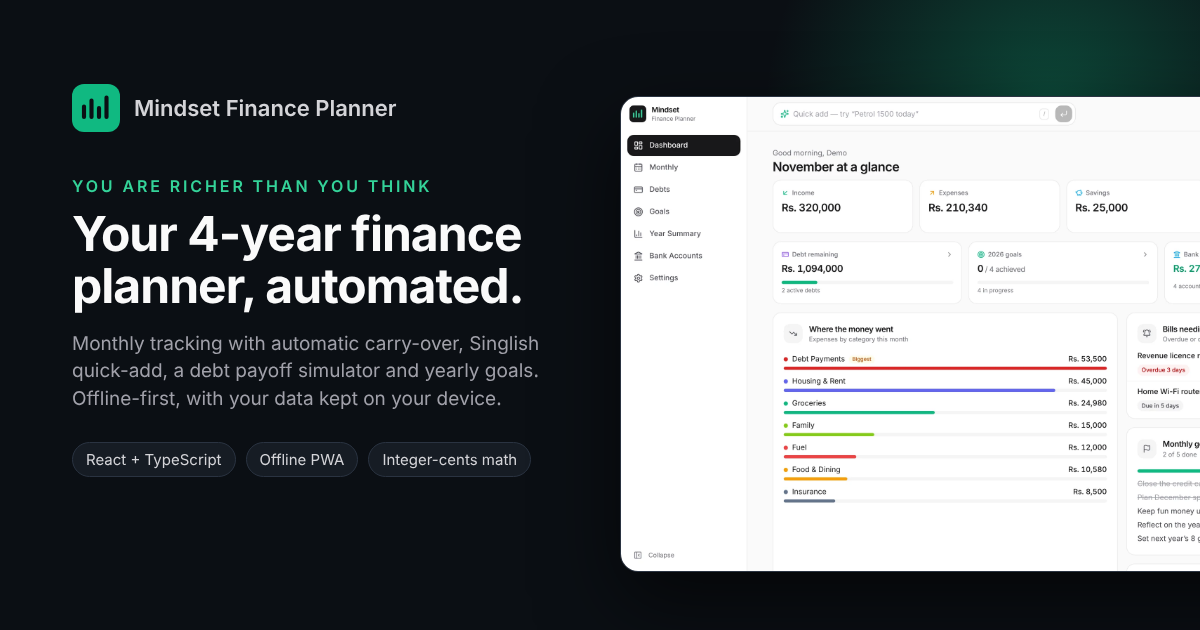
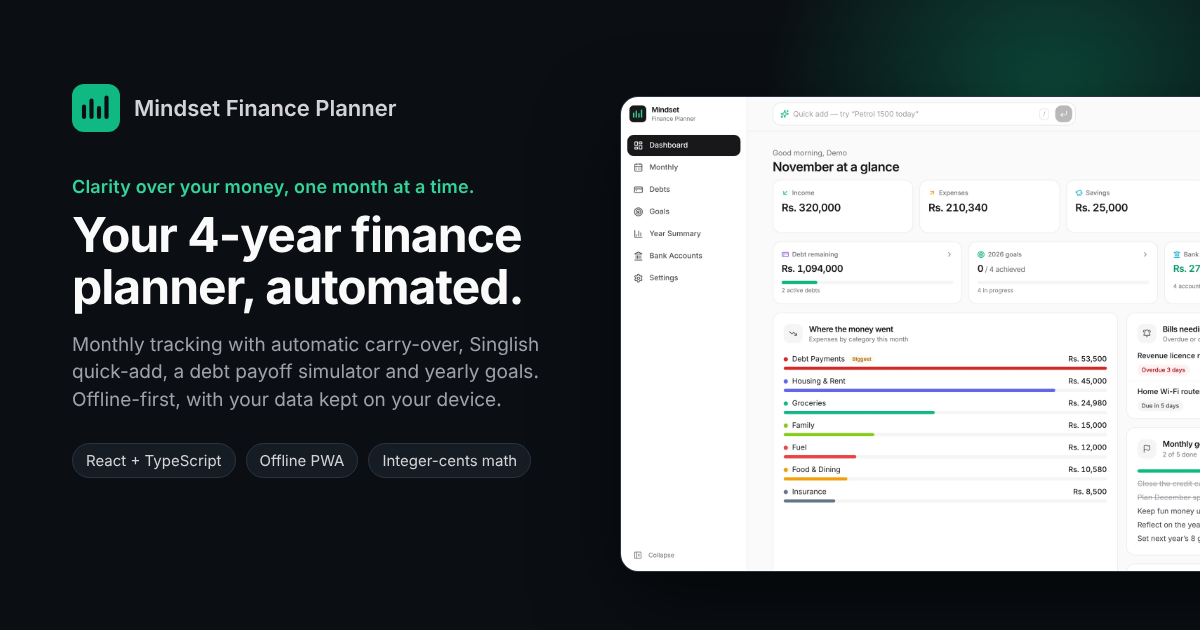
V1 originality polish: replace the reference planner's slogan
- Welcome screen tagline is now original: "Clarity over your money,
  one month at a time."
- Sample-data reflection reworded so no planner phrasing remains
- Open Graph preview image regenerated with the new tagline
- src/originality.test.ts scans src, public assets, index.html, README
  and docs (via import.meta.glob) and fails if the slogan reappears;
  verified it fails with the old copy and passes with the new
- README notes the original-copy policy; test count updated (192)

Claude-Session: https://claude.ai/code/session_01BjArtjfvLbhKputYadAAhH

diff --git a/src/originality.test.ts b/src/originality.test.ts
@@ -1,0 +1,29 @@
+import { describe, expect, it } from 'vitest';
+
+/**
+ * V1 originality guard: the app's copy must be our own. The reference paper planner's slogan
+ * must not reappear in the UI, sample data, HTML, public assets or docs.
+ * Uses Vite's import.meta.glob (no Node APIs, so it type-checks with the app's tsconfig).
+ */
+const BANNED: readonly RegExp[] = [/richer than (you|i) think/i];
+
+const sources: Record<string, string> = {
+  ...import.meta.glob('/src/**/*.{ts,tsx,css}', { query: '?raw', import: 'default', eager: true }),
+  ...import.meta.glob('/public/**/*.{js,svg,webmanifest}', { query: '?raw', import: 'default', eager: true }),
+  ...import.meta.glob('/{index.html,README.md,docs/**/*.md}', { query: '?raw', import: 'default', eager: true }),
+};
+
+describe('copy originality', () => {
+  it('scans the app, assets and docs', () => {
+    expect(Object.keys(sources).length).toBeGreaterThan(100);
+    expect(Object.keys(sources)).toContain('/README.md');
+  });
+
+  it('does not use the reference planner’s slogan anywhere', () => {
+    const offenders = Object.entries(sources)
+      .filter(([path]) => !path.endsWith('/originality.test.ts'))
+      .filter(([, text]) => BANNED.some((re) => re.test(text)))
+      .map(([path]) => path);
+    expect(offenders).toEqual([]);
+  });
+});

diff --git a/src/features/dashboard/DashboardPage.tsx b/src/features/dashboard/DashboardPage.tsx
@@ -30,7 +30,7 @@ const Welcome = () => {
       <Card className="overflow-hidden">
         <div className="relative px-6 py-10 sm:px-10 sm:py-14">
           <div className="pointer-events-none absolute -right-24 -top-24 size-72 rounded-full bg-accent-500/10 blur-3xl" />
-          <p className="text-xs font-semibold uppercase tracking-[0.18em] text-accent-700 dark:text-accent-400">You are richer than you think</p>
+          <p className="text-xs font-semibold uppercase tracking-[0.18em] text-accent-700 dark:text-accent-400">Clarity over your money, one month at a time.</p>
           <h1 className="mt-3 max-w-xl text-3xl font-semibold tracking-tight text-balance sm:text-4xl">Your 4-year finance planner, now automatic.</h1>
           <p className="mt-3 max-w-lg text-sm leading-relaxed text-pretty text-zinc-600 dark:text-zinc-400">
             Track income, savings, debt and bills month by month. Totals, carry-over balances and yearly summaries calculate themselves. Your data stays on this device and works offline.

diff --git a/src/lib/demoData.ts b/src/lib/demoData.ts
@@ -45,7 +45,7 @@ const REFLECTIONS: readonly string[] = [
   'Automating the unit trust deposit on salary day means I never “see” that money, and I don’t miss it.',
   'Paying more than the minimum on the card feels slow, but the interest line on the statement is finally shrinking.',
   'The emergency fund gave me calm when the car needed repairs. No panic, no new loan.',
-  'Small, consistent steps beat big resolutions. I am richer than I think when I look at the whole picture.',
+  'Small, consistent steps beat big resolutions. Seeing the whole year on one page showed me how far I’ve come.',
 ];
 
 const NOTES: readonly string[] = [

diff --git a/README.md b/README.md
@@ -35,7 +35,7 @@ Built with React, TypeScript, Tailwind CSS and Recharts. Default currency is Sri
 
 The starting point was a printed planner (photos in [`Sample image/`](Sample%20image/)). Each month it has tables for income, savings, debt and bills, an "Other bills" page, a monthly overview with a "This month taught me…" line, debt tracker pages, eight yearly goals and a year-end summary. It's a good system, but every total, every carry-over and every yearly figure has to be worked out by hand.
 
-This app keeps the structure and the mindset prompts and automates the math. It also redesigns the parts that shouldn't be copied, most notably the bank page's "login note" and "security hint" fields (see [Security by design](#security-by-design)).
+This app keeps the structure and the mindset prompts and automates the math. All interface copy, including the tagline *“Clarity over your money, one month at a time.”*, is original; a test (`src/originality.test.ts`) fails the build if the reference planner's slogan reappears. It also redesigns the parts that shouldn't be copied, most notably the bank page's "login note" and "security hint" fields (see [Security by design](#security-by-design)).
 
 ## Features
 
@@ -254,7 +254,7 @@ In a deployed build, users paste their own key in **Settings → AI quick-entry*
 
 ## Testing
 
-190 unit tests cover the parts where a bug costs real money or trust:
+192 unit tests cover the parts where a bug costs real money or trust:
 
 - **Money:** cent math, parsing (`1,500`, `1,50,000`, `1.5k`, `2 lakh`, `850/-`, negatives), the Rs. 1 trillion limit, LKR formatting, compact axis labels.
 - **Month summary and carry-over:** totals, difference, balance forward, biggest and smallest area, skipped months, overrides, settled bills.
